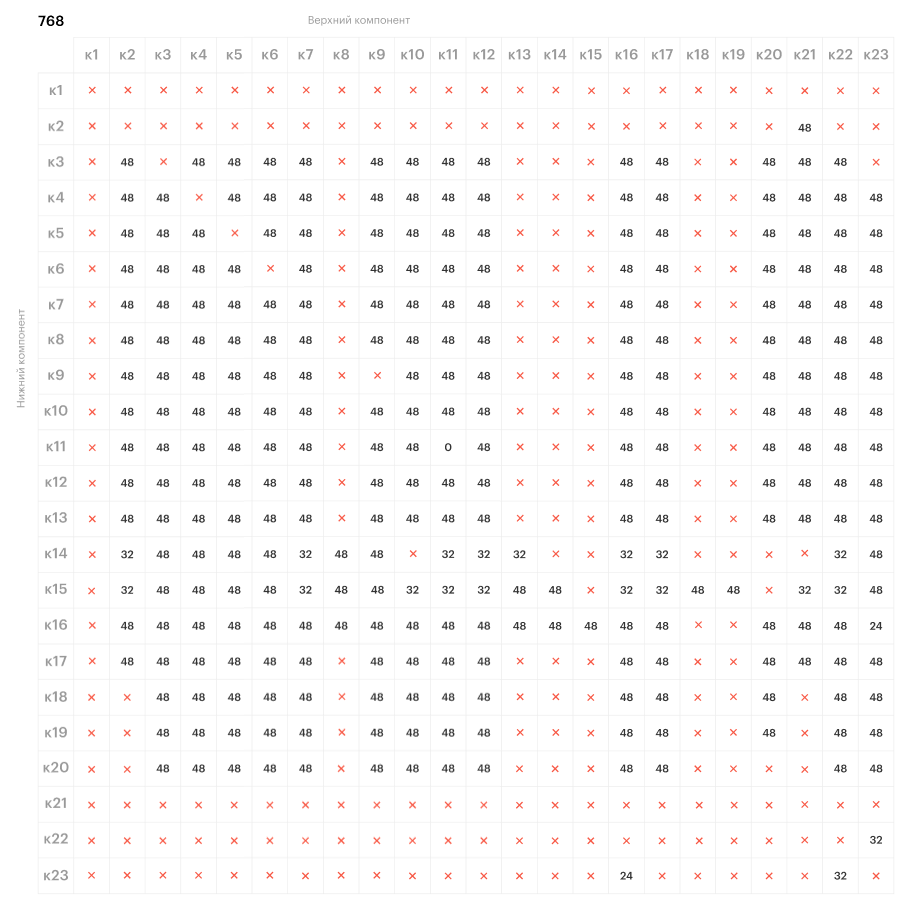
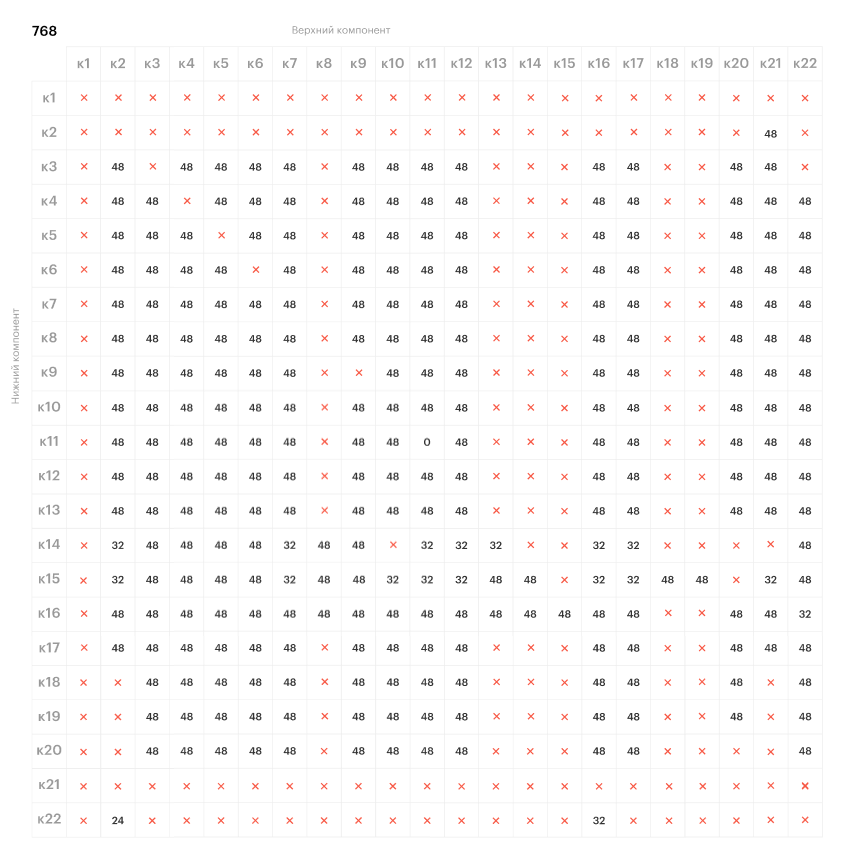
feat(container): fix margin rules for component TextWithIcon

diff --git a/packages/ui-shared/src/components/Container/Container.less b/packages/ui-shared/src/components/Container/Container.less
@@ -22,8 +22,8 @@
 @k19: e('.mfui-button-banner');
 @k20: e('.mfui-steps');
 @k21: e('.mfui-page-title');
-@k23: e('.mfui-text-with-icon');
-@components: @k1, @k2, @k3, @k4, @k5, @k6, @k7, @k8, @k9, @k10, @k11, @k12, @k13, @k14, @k15, @k16, @k17, @k18, @k19, @k20, @k21, @k23;
+@k22: e('.mfui-text-with-icon');
+@components: @k1, @k2, @k3, @k4, @k5, @k6, @k7, @k8, @k9, @k10, @k11, @k12, @k13, @k14, @k15, @k16, @k17, @k18, @k19, @k20, @k21, @k22;
 
 @color-modificator: e('&_bg-color_');
 @color-default: e('default');
@@ -128,6 +128,7 @@
 
     .generateComponentsMargins(@large, @k2, 3, 17);
     .generateComponentsMargins(@small, @k2, 14, 15);
+    .generateComponentsMargins(@smallest, @k2, 22, 22);
 
     @media @mobileB {
         .generateComponentsMargins(@big, @k2, 3, 17);
@@ -346,7 +347,7 @@
 
     .generateComponentsMargins(@large, @k16, 3, 20);
     .generateComponentsMargins(@small, @k16, 14, 15);
-    .generateComponentsMargins(@smallest, @k16, 23, 23);
+    .generateComponentsMargins(@small, @k16, 22, 22);
 
     @media @mobileB {
         .generateComponentsMargins(@big, @k16, 3, 20);
@@ -420,21 +421,21 @@
         .disableMarginTop();
     }
 
-    // k23(text-with-icon)
-    .generateComponentsMargins(@medium, @k23, 4, 15);
-    .generateComponentsMargins(@smallest, @k23, 16, 16);
-    .generateComponentsMargins(@medium, @k23, 17, 20);
+    // k22(text-with-icon)
+    .generateComponentsMargins(@medium, @k22, 4, 15);
+    .generateComponentsMargins(@small, @k22, 16, 16);
+    .generateComponentsMargins(@medium, @k22, 17, 20);
 
     @media @mobileB {
-        .generateComponentsMargins(@big, @k23, 4, 15);
-        .generateComponentsMargins(@smallest, @k23, 16, 16);
-        .generateComponentsMargins(@big, @k23, 17, 20);
+        .generateComponentsMargins(@big, @k22, 4, 15);
+        .generateComponentsMargins(@small, @k22, 16, 16);
+        .generateComponentsMargins(@big, @k22, 17, 20);
     }
     @media @desktop {
-        .generateComponentsMargins(@large, @k23, 4, 13);
-        .generateComponentsMargins(@big, @k23, 14, 15);
-        .generateComponentsMargins(@smallest, @k23, 16, 16);
-        .generateComponentsMargins(@large, @k23, 17, 20);
+        .generateComponentsMargins(@large, @k22, 4, 13);
+        .generateComponentsMargins(@big, @k22, 14, 15);
+        .generateComponentsMargins(@small, @k22, 16, 16);
+        .generateComponentsMargins(@large, @k22, 17, 20);
     }
 
     &_disable-padding-top {
